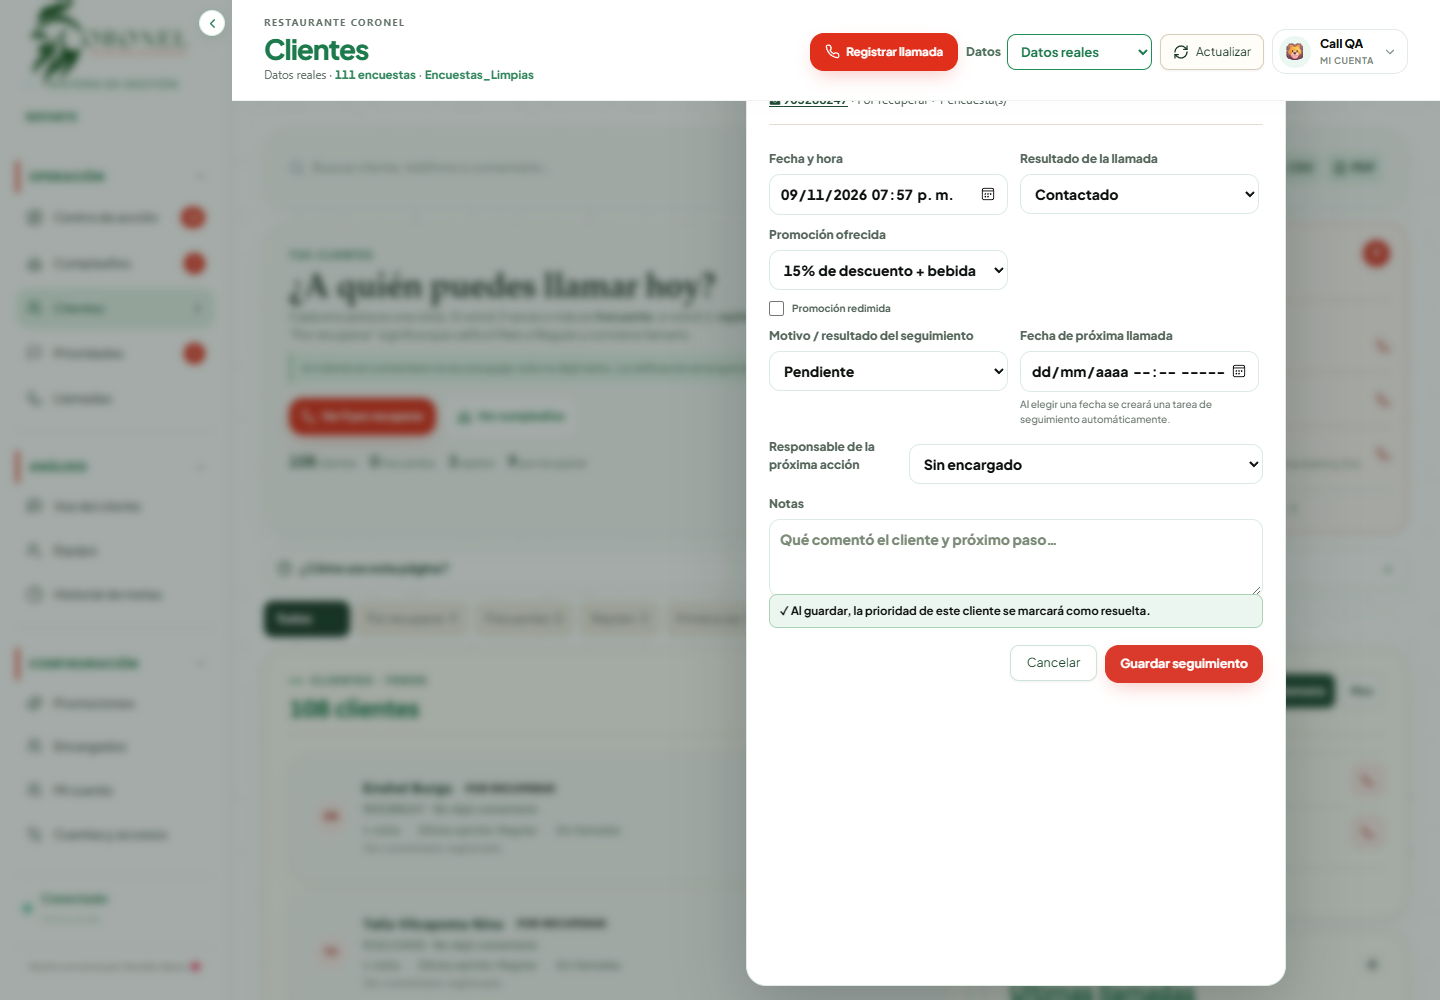
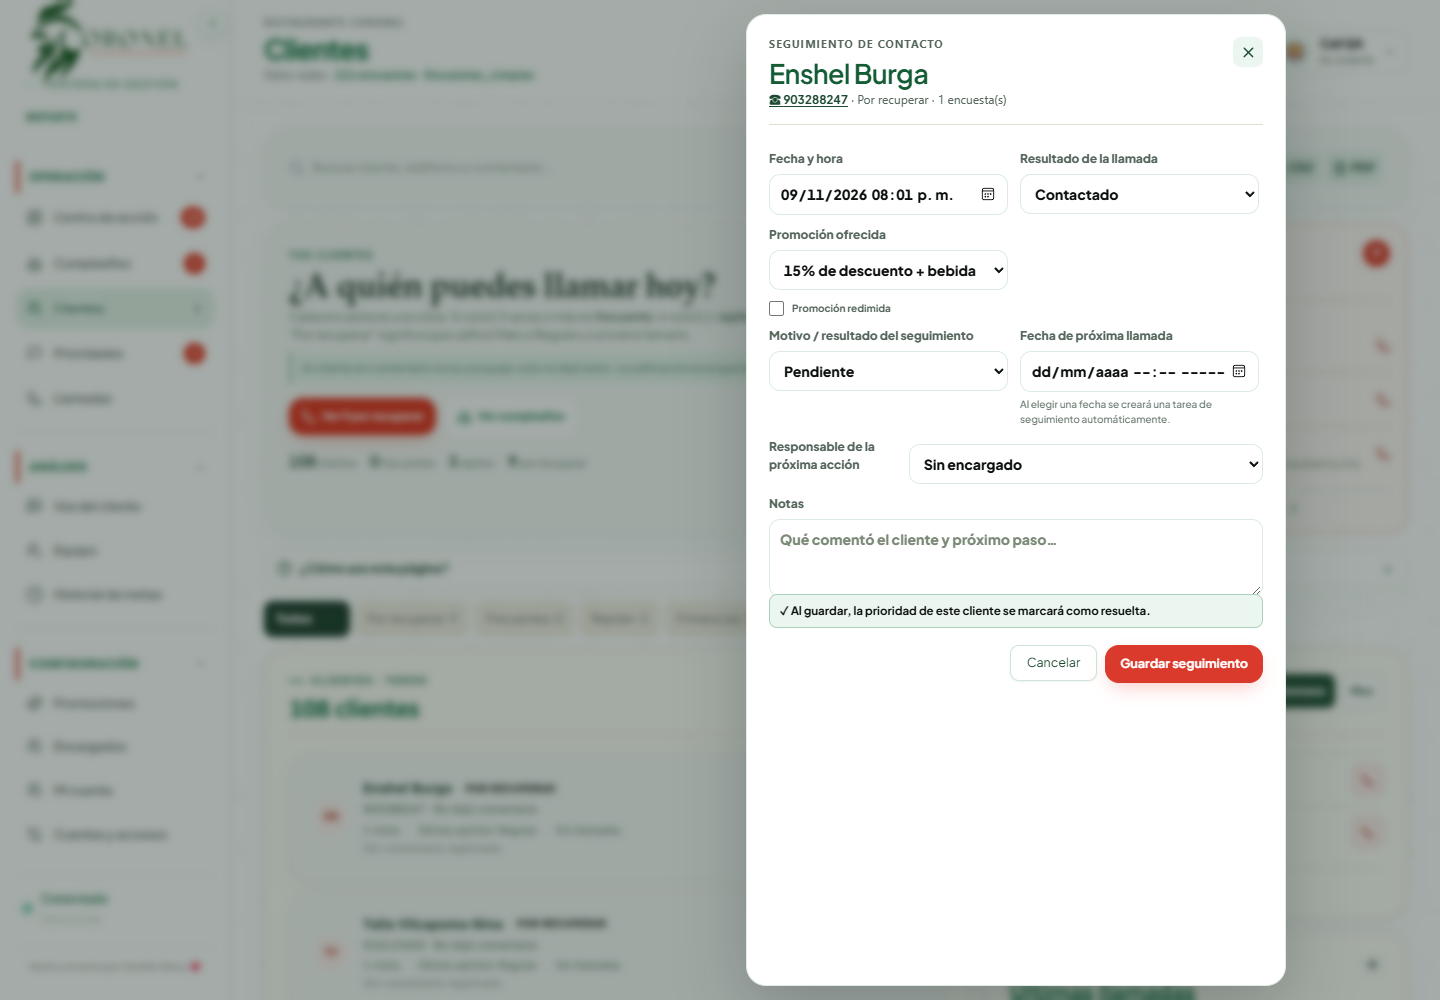
Fijar fichas de llamada al borde derecho del viewport

Changed region(s): [[0.125, 0.0, 1.0, 0.124]]

diff --git a/client/src/index.css b/client/src/index.css
@@ -5784,3 +5784,23 @@ body * { font-variant-numeric: tabular-nums; }
   }
   .quick-call-head h3, .call-modal .modal-head h3 { font-size: 23px !important; }
 }
+
+/* Fijar el contenedor de la ficha de llamada al viewport completo */
+.call-modal-backdrop,
+.bw-modal-backdrop,
+.quick-call-backdrop {
+  position: fixed !important;
+  inset: 0 !important;
+  width: 100vw !important;
+  height: 100vh !important;
+  display: flex !important;
+  align-items: stretch !important;
+  justify-content: flex-end !important;
+  padding: 14px !important;
+  z-index: 90 !important;
+}
+.call-modal, .bw-modal, .bw-modal-wide, .quick-call-modal { flex: 0 0 auto; }
+@media (max-width: 760px) {
+  .call-modal-backdrop, .bw-modal-backdrop, .quick-call-backdrop { padding: 8px !important; }
+  .call-modal, .bw-modal, .bw-modal-wide, .quick-call-modal { width: 100% !important; height: 100% !important; max-height: 100% !important; }
+}

diff --git a/docs/ESTILO_ACTUAL.css b/docs/ESTILO_ACTUAL.css
@@ -1608,3 +1608,23 @@ body * { font-variant-numeric: tabular-nums; }
   }
   .quick-call-head h3, .call-modal .modal-head h3 { font-size: 23px !important; }
 }
+
+/* Fijar el contenedor de la ficha de llamada al viewport completo */
+.call-modal-backdrop,
+.bw-modal-backdrop,
+.quick-call-backdrop {
+  position: fixed !important;
+  inset: 0 !important;
+  width: 100vw !important;
+  height: 100vh !important;
+  display: flex !important;
+  align-items: stretch !important;
+  justify-content: flex-end !important;
+  padding: 14px !important;
+  z-index: 90 !important;
+}
+.call-modal, .bw-modal, .bw-modal-wide, .quick-call-modal { flex: 0 0 auto; }
+@media (max-width: 760px) {
+  .call-modal-backdrop, .bw-modal-backdrop, .quick-call-backdrop { padding: 8px !important; }
+  .call-modal, .bw-modal, .bw-modal-wide, .quick-call-modal { width: 100% !important; height: 100% !important; max-height: 100% !important; }
+}
